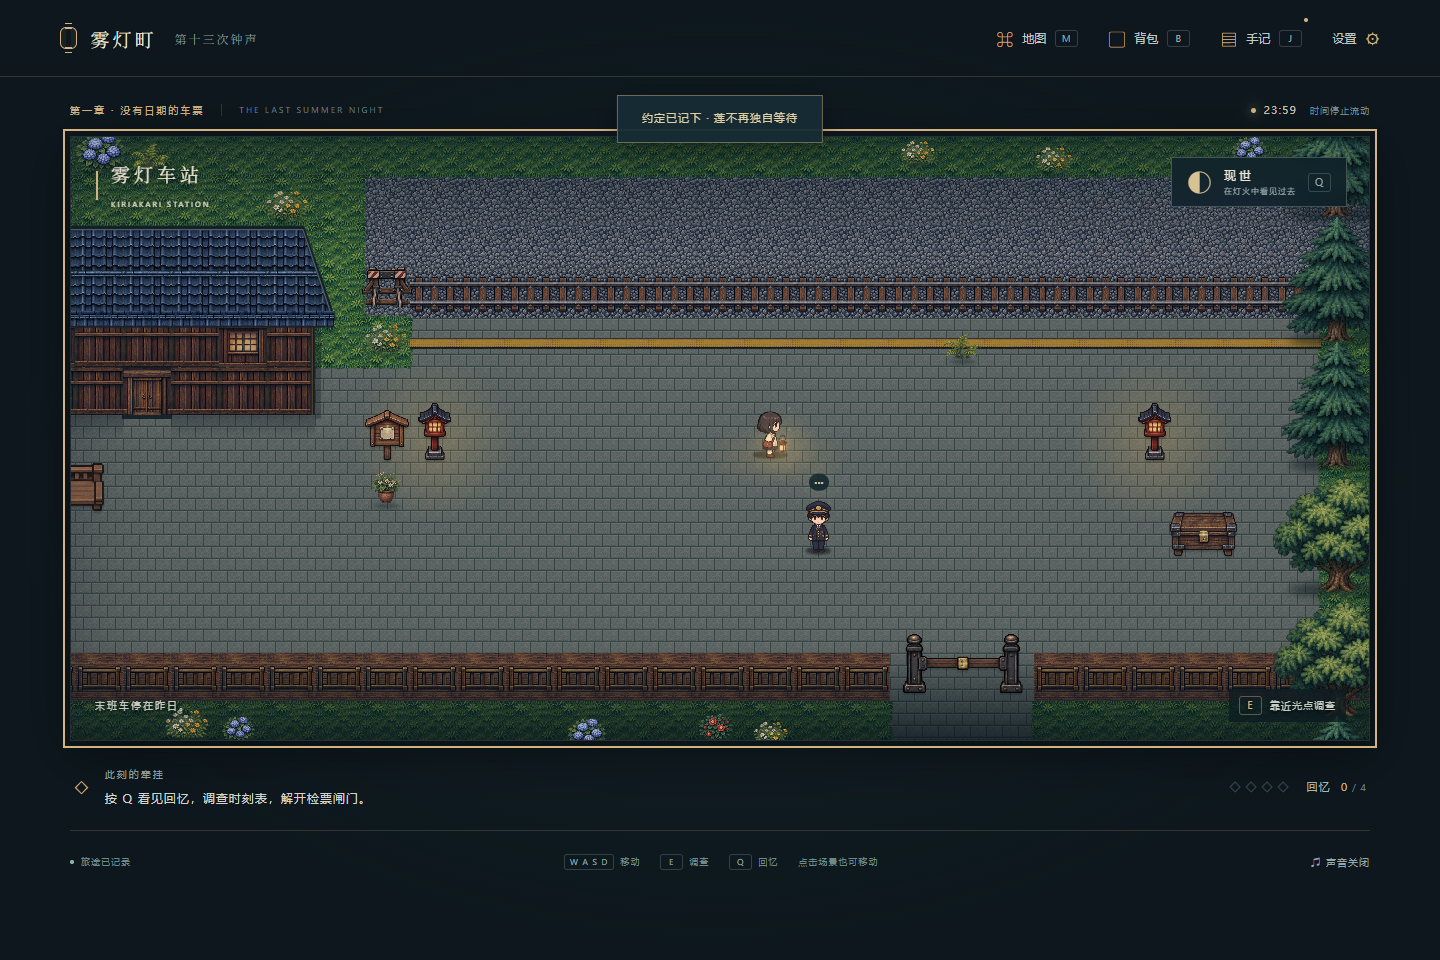
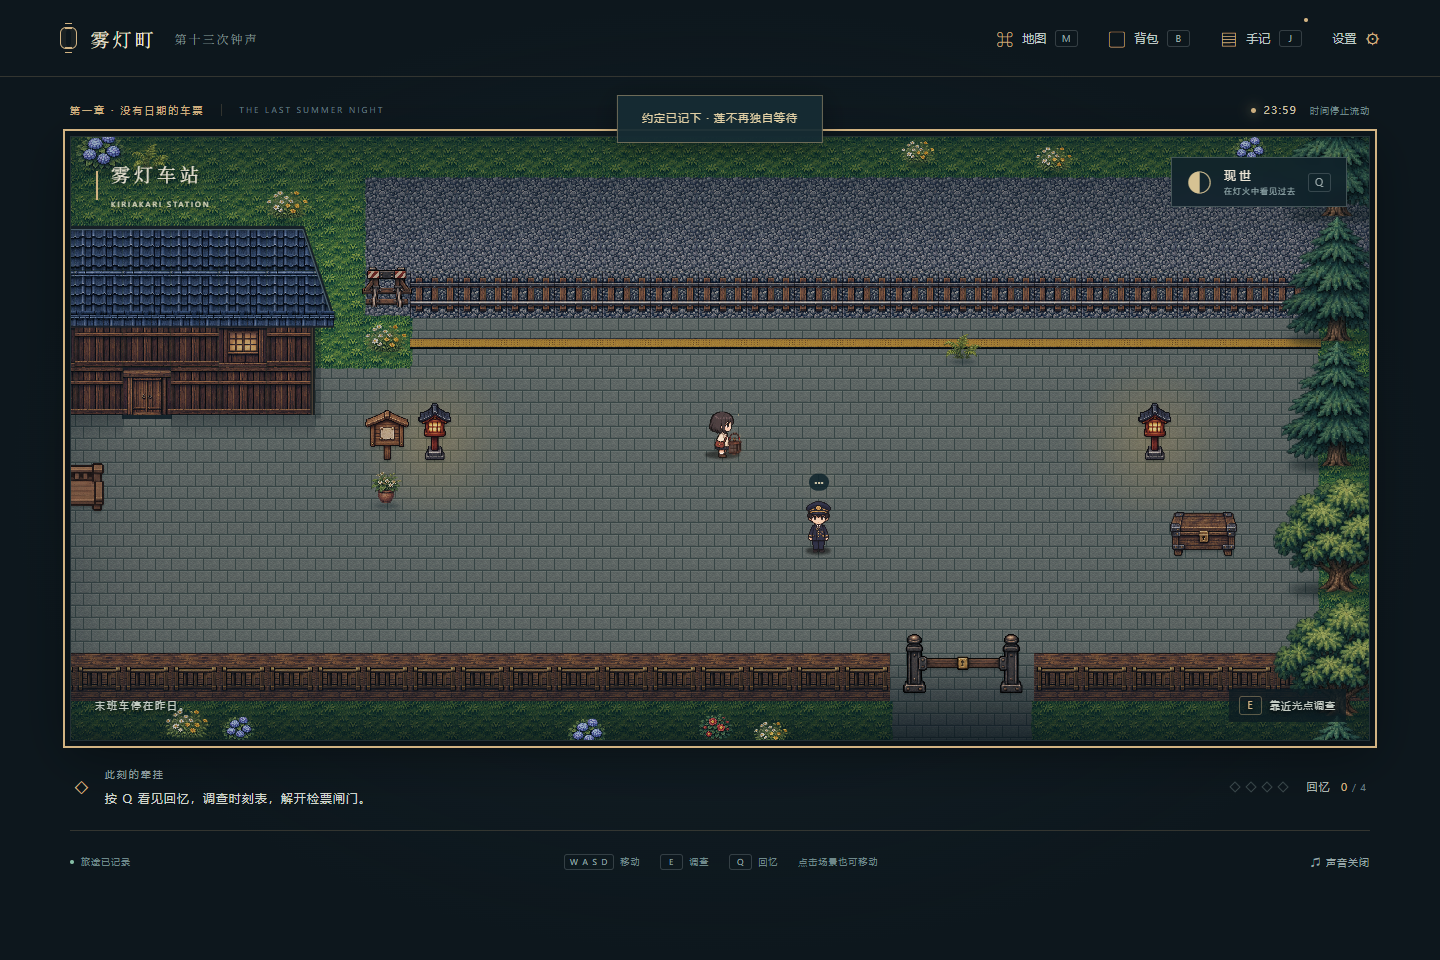
Show unlit, ember and animated flame states on the carried lantern

diff --git a/lighting.js b/lighting.js
@@ -1,7 +1,22 @@
 /* Light, depth fog and a restrained photographic memory atmosphere. */
 (function(root){
   'use strict';
-  const lanternImage=new Image();lanternImage.src='assets/guide-lantern.png';
+  const handSheets={};for(const size of [32,48]){const img=new Image();img.src='assets/guide-lantern-states-native-'+size+'.png';handSheets[size]=img;}
+  const handStates=new WeakMap();
+  function hand(node,{found,lit,phase,time,tile,reduced}){
+    const mode=!lit?'unlit':phase==='echo'?'flame':'ember',prior=handStates.get(node);
+    let state=prior;if(!state||state.mode!==mode){state={mode,at:time,from:prior?.mode==='unlit'&&mode==='ember'?1:prior?.gain??(mode==='flame'?1:mode==='ember'?.06:0),gain:0};handStates.set(node,state);}
+    const age=reduced?1:Math.min(1,Math.max(0,(time-state.at)/300)),target=mode==='flame'?1:mode==='ember'?.06:0;
+    const gain=state.from+(target-state.from)*(age*age*(3-2*age));state.gain=gain;
+    const active=mode==='flame'||mode==='ember'&&age<1&&gain>.18;
+    const frame=active?2+(reduced?0:Math.floor(time/140)%3):mode==='ember'?1:0;
+    const width=tile===32?10:16,height=tile===32?14:22;
+    node.hidden=!found;node.dataset.lampState=mode;node.dataset.lampFrame=String(frame);
+    node.style.width=width+'px';node.style.height=height+'px';node.style.backgroundImage=`url('${handSheets[tile].src}')`;
+    node.style.backgroundSize=width*5+'px '+height+'px';node.style.backgroundPosition=-frame*width+'px 0';
+    node.style.setProperty('--lamp-glow',String(lit?gain:0));
+    node.style.setProperty('--lamp-bloom',String(reduced?1:1+Math.sin(time*.004)*.035+(mode==='flame'&&age<1?Math.sin(age*Math.PI)*.12:0)));
+  }
   let phase=null,phaseAt=-10000,lastTime=0,mix=0,fogCanvas,grain;
   // Anchored to the carrying hand, including the hidden far hand when facing north.
   function pose(facing,walking,time,reduced=false){
@@ -29,7 +44,7 @@
     // A warm pool sits on the ground; it remains when decorative particles are off.
     if(lit){
       pen.save();pen.translate(point.x+tile*.12,point.y-tile*.04);pen.scale(1,.43);pen.globalCompositeOperation='screen';
-      radial(pen,0,0,tile*(1.55+mix*.35),`rgba(250,182,84,${.15+mix*.07})`,'rgba(250,182,84,0)');pen.restore();
+      radial(pen,0,0,tile*(1.55+mix*.35),`rgba(250,182,84,${(.15+mix*.07)*(.08+.92*mix)})`,'rgba(250,182,84,0)');pen.restore();
     }
     if(mix>.003){
       // Low-resolution translucent fog, cleared around the lantern instead of hiding exits.
@@ -58,7 +73,7 @@
     if(lit){
       pen.save();pen.globalCompositeOperation='screen';
       const breath=reduced?1:1+Math.sin(t*.003)*.035;
-      radial(pen,focus.x,focus.y,tile*.78*breath,`rgba(255,209,126,${.18+mix*.08})`,'rgba(255,209,126,0)');pen.restore();
+      radial(pen,focus.x,focus.y,tile*.78*breath,`rgba(255,209,126,${(.18+mix*.08)*(.08+.92*mix)})`,'rgba(255,209,126,0)');pen.restore();
     }
     if(particles&&!reduced){
       for(let i=0;i<(mix>.1?26:12);i++){
@@ -79,5 +94,5 @@
     }
     pen.restore();
   }
-  root.KiriLighting={pose,paint,assetsReady:()=>lanternImage.complete&&lanternImage.naturalWidth>0};
+  root.KiriLighting={pose,paint,hand,assetsReady:()=>Object.values(handSheets).every(img=>img.complete&&img.naturalWidth>0)};
 })(globalThis);

diff --git a/style.css b/style.css
@@ -79,6 +79,11 @@
 .player .sprite{z-index:1}
 .player .player-lantern{width:calc(var(--tile-size)*.32);height:calc(var(--tile-size)*.43);right:auto;bottom:auto;background:url('assets/guide-lantern.png') center/100% 100% no-repeat;border-radius:0;box-shadow:none;z-index:2;transform:translate(-50%,-55%) rotate(var(--lamp-angle,0deg));transform-origin:50% 13%;image-rendering:pixelated;filter:drop-shadow(0 0 2px #ffdaa052)}
 .player .player-lantern[data-behind=true]{z-index:0;filter:brightness(.85)}
+.player.carrying .player-lantern{display:block;filter:none;background-repeat:no-repeat;overflow:visible}
+.player .player-lantern::before{content:'';position:absolute;left:50%;top:70%;width:calc(var(--tile-size)*1.1);height:calc(var(--tile-size)*1.1);transform:translate(-50%,-50%) scale(var(--lamp-bloom,1));background:radial-gradient(ellipse,#ffd18a4a 0%,#f9b3541f 35%,#ef9e3600 70%);opacity:var(--lamp-glow,0);pointer-events:none;z-index:-1}
+.player .player-lantern[data-lamp-state=unlit]{filter:none}
+.player .player-lantern[data-lamp-state=ember]{filter:drop-shadow(0 0 1px #d36b301a)}
+.player .player-lantern[data-behind=true]{z-index:0;filter:brightness(.85)}
 .world.echo #tile-map,.world.echo .building-sprite{filter:saturate(.45) sepia(.45) contrast(.92) brightness(1.06)}
 #tile-map,.building-sprite{transition:filter .65s ease}
 .world.echo .scenery-art{filter:brightness(.95) saturate(.43) sepia(.43)}

diff --git a/game.js b/game.js
@@ -102,6 +102,7 @@
     $('zone-name').textContent = zone.name; $('zone-reading').textContent = zone.reading; $('zone-sub').textContent = zone.sub;
     syncPhaseControls();
     $('player').classList.toggle('lit', !!state.flags.lantern);
+    $('player').classList.toggle('carrying',!!state.flags.lampFound||!!state.flags.lantern);
     const container = $('objects'); container.replaceChildren();
     visibleObjects().forEach(obj => {
       const el = document.createElement('button'); el.type = 'button';
@@ -130,6 +131,7 @@
     const lamp=KiriLighting.pose(state.player.facing,walking,performance.now(),reducedMotion),lampNode=player.querySelector('.player-lantern'),size=R.view.tile;
     lampNode.style.left=`calc(50% + ${lamp.x*size}px)`;lampNode.style.top=`calc(100% + ${lamp.y*size}px)`;
     lampNode.style.setProperty('--lamp-angle',lamp.angle+'deg');lampNode.dataset.behind=String(lamp.behind);
+    KiriLighting.hand(lampNode,{found:!!state.flags.lampFound||!!state.flags.lantern,lit:!!state.flags.lantern,phase:state.phase,time:performance.now(),tile:size,reduced:reducedMotion});
     lanternPoint={x:point.x+lamp.x*size,y:point.y+lamp.y*size};
     const frame=walking?motion.frame:1;
     player.querySelector('.sprite').style.backgroundPosition = `${walkSheetReady?frame*50:0}% ${state.player.facing * 100 / 3}%`;

diff --git a/docs/HAND-LANTERN-STATES.md b/docs/HAND-LANTERN-STATES.md
@@ -1,0 +1,24 @@
+# 手提引灯的明灭状态
+
+日期：2026-11-17。
+
+引灯本体分为未点燃、余烬、火焰三态：未获得时隐藏；获得但尚未用火柴点燃时显示冷灰玻璃与黑灯芯；点燃后现世保留一颗弱余烬，开启引灯进入回忆时显示三帧火苗和暖色灯罩。首次点燃短暂燃起后落到余烬；切换时局部微光用300ms平滑过渡，开启略微扬起，行走保留原提灯摆动。回忆状态照亮手部与衣摆周围，现世地面光池与光晕降为微弱余光。
+
+灯外轮廓、提手与持握位置固定。桌面原生16×22像素，手机10×14像素，不用单格拉伸。减少动态效果时固定火苗帧、取消摆动与呼吸并立即切换光照；关闭装饰粒子不会隐藏用于辨识状态的灯芯。背面朝向仍将灯置于人物后方。
+
+## 素材
+
+内置image_gen基于assets/guide-lantern.png生成透明五帧图集，保存为assets/guide-lantern-states.png。第一帧熄灭，第二帧余烬，后三帧为火苗。统一裁切范围及等比缩放，导入assets/guide-lantern-states-native-32.png（50×14）与assets/guide-lantern-states-native-48.png（80×22）。运行时逐帧按原生尺寸取图，不重新拉伸或裁切。
+
+## 验证
+
+42项规则检查通过。新增--hand-lamp-preview实测未获得隐藏、三种状态、动画换帧、切换回忆/现世、减少动态效果、390px手机原生尺寸；预览preview-hand-lamp-unlit-detail.png、preview-hand-lamp-ember-detail.png、preview-hand-lamp-flame-detail.png、preview-hand-lamp-mobile.png。--lighting-only继续复验实际开局拿灯、背包点火、移动四向提灯与遮挡、关闭装饰粒子和减少动态效果。
+
+## 完整生成提示词
+
+参考图：assets/guide-lantern.png，作为造型与材质参考。
+
+```text
+Use case: stylized-concept. Create a production animation/state sprite strip based on the reference handheld lantern. A transparent canvas with EXACTLY FIVE equal cells in one horizontal row. Reference image defines the object design: tiny antique dark-wood rectangular Japanese carrying lantern, curved brown handle, brass hinge rings, simple dark lattice and cream glass. Keep EXACTLY the same silhouette, outer frame, handle, perspective, scale, position and registration across all five cells; no swinging or deformation. Only the glass interior and wick vary. Cell0: completely unlit, smoky cool-grey glass, visible dark wick, no warm pixels and no glow. Cell1: dim ember only, dark brown-grey glass and a single tiny muted red-orange coal near bottom-center, no bright panels. Cell2: active flame poseA, small yellow-orange flame inside lower-center, amber glass with brighter golden core, tiny warm edge highlights on wooden frame. Cell3: identical active lantern, flame leans slightly left, a little narrower. Cell4: identical active lantern, flame slightly taller and leaning right. All active frames clearly brighter than ember. Preserve the lantern body itself. Intended on-screen size about16x22pixels desktop,10x14pixels phone, so clear chunky pixel clusters and restrained detail are essential. Top-down RPG character holds it beside their thigh. No external glow or background, no shadow halo, no terrain, no people, no text, no grid lines. Fully transparent outside each lantern including the handle hole. Generous equal padding. Do not enlarge the flame beyond the lantern glass.
+```
+
